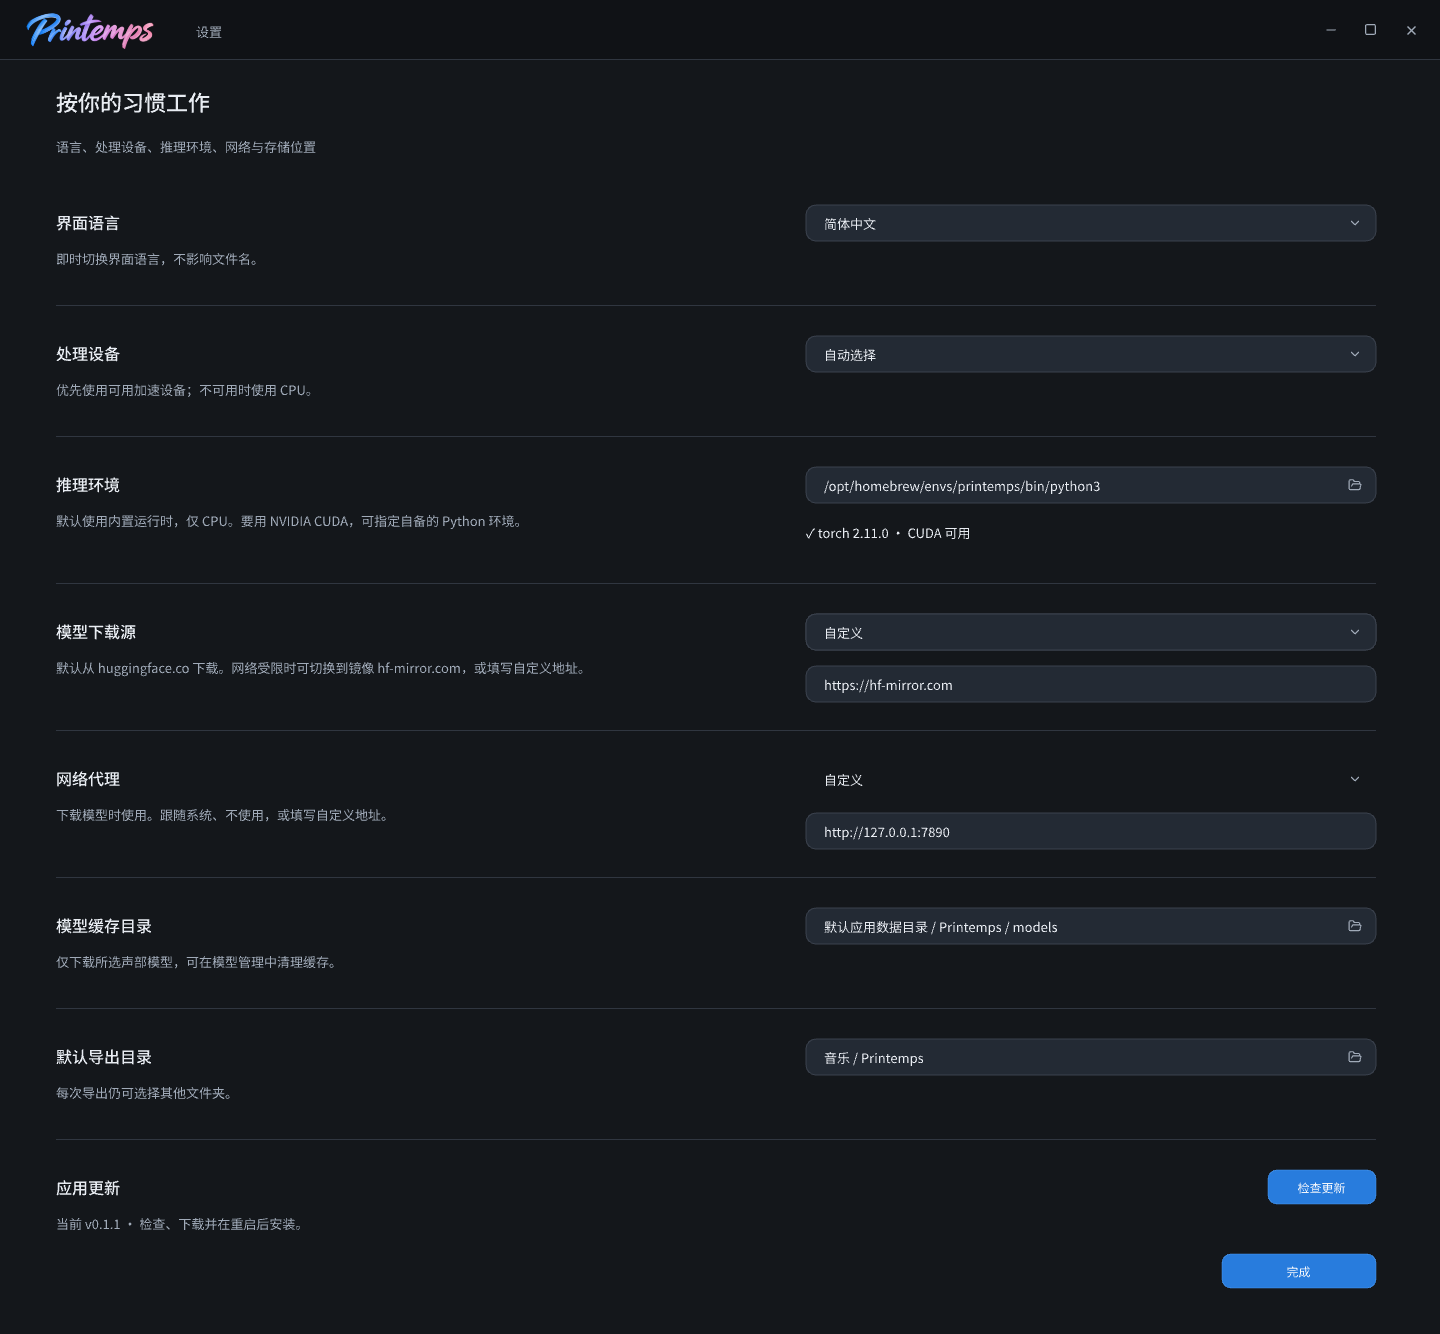
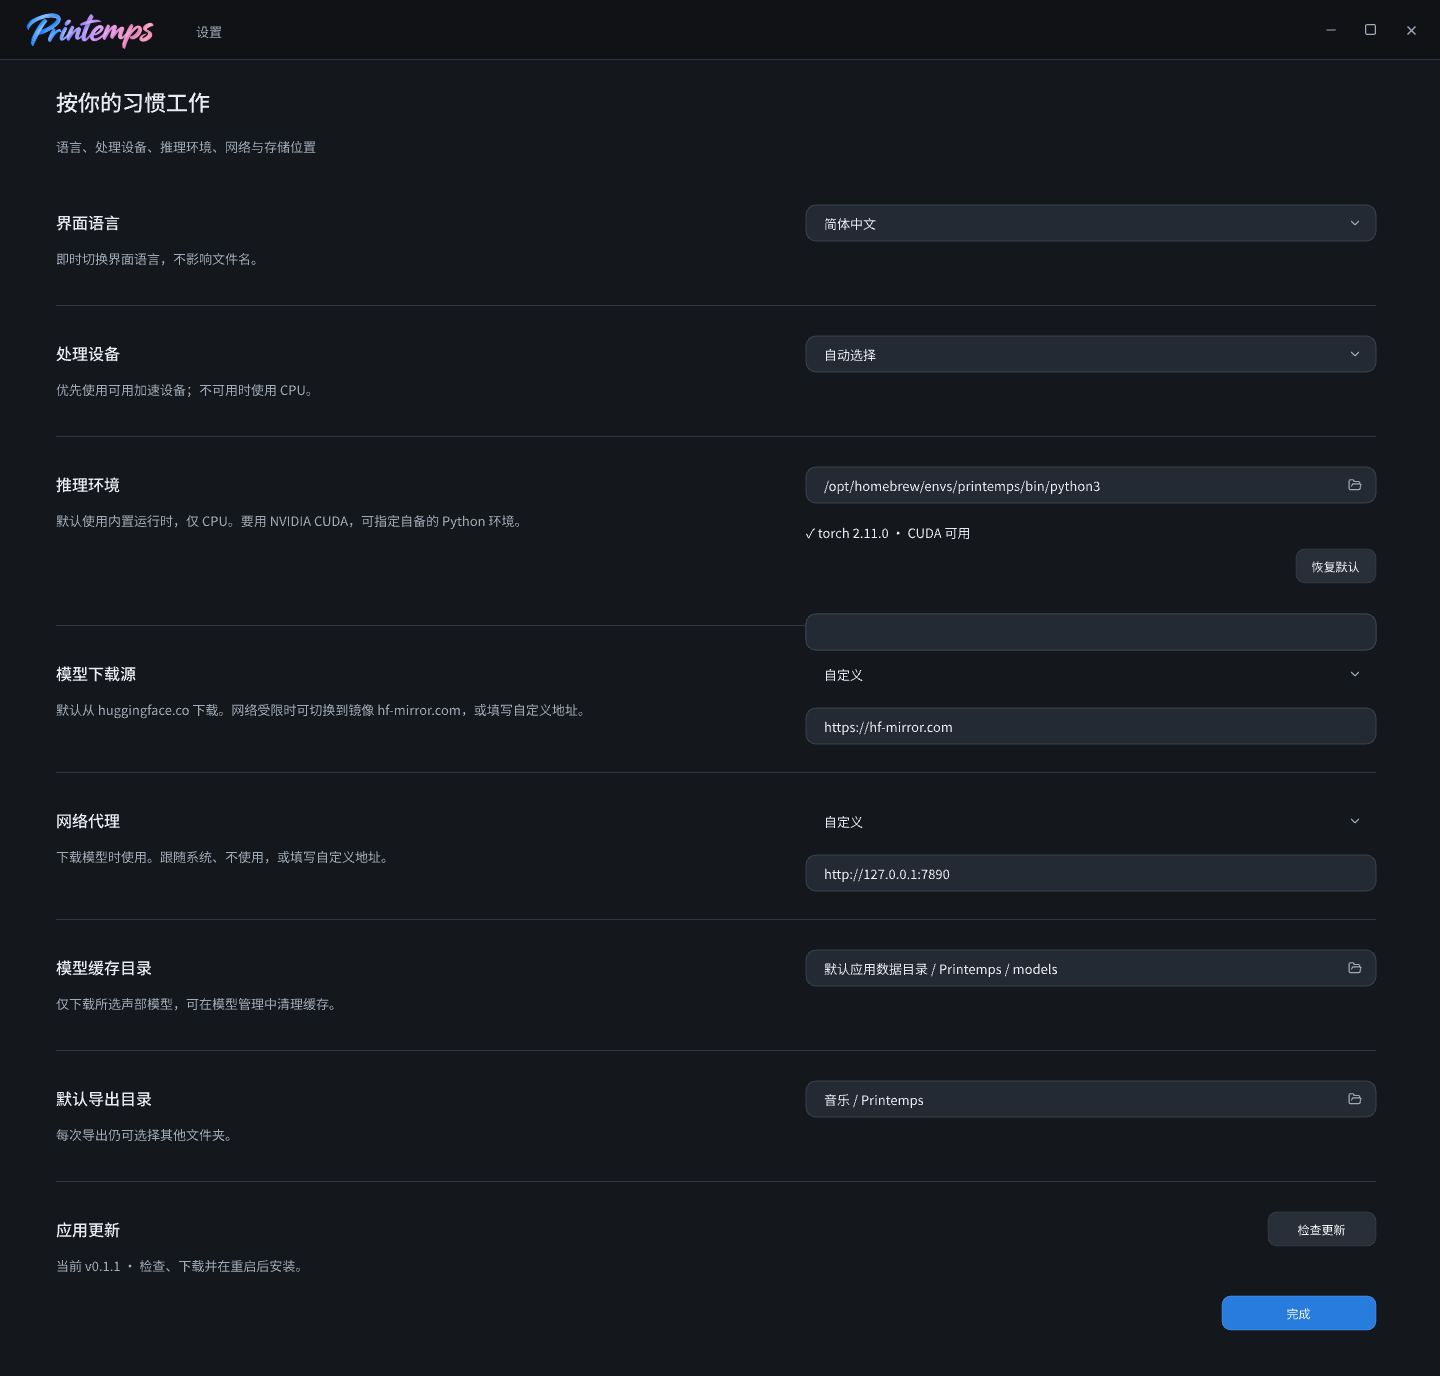
Settings: always show the interpreter reset, and make the preview reach the custom state
The reset existed but the button was hidden until a custom path was set, unlike
the sibling directory rows. Board 09 gained the control and both it and the
update button were corrected from primary to secondary, leaving one primary.

diff --git a/preview/main.ts b/preview/main.ts
@@ -43,7 +43,7 @@ const partial:Partial<DesktopAPI>={
  listArchivedProjects:async()=>structuredClone(archived),restoreArchivedProject:async id=>{const item=archived.find(p=>p.archiveId===id);if(!item)throw new Error('Project not found');projects.push(item.project);archived=archived.filter(p=>p.archiveId!==id);return structuredClone(item.project)},purgeArchivedProject:async id=>{archived=archived.filter(p=>p.archiveId!==id)},
  listProjects:async()=>structuredClone(projects),openProject:async id=>{const found=projects.find(p=>p.id===id);if(!found)throw new Error('Project not found');project=found;return structuredClone(project)},importAudio:async()=>{if(failNextImport){failNextImport=false;throw new Error('/private/fixture.wav: Invalid data found when processing input')}return structuredClone(project)},
  saveProject:async (id,edits)=>{if(id!==project.id)throw new Error('Project not found');if(failNextSave){failNextSave=false;throw new Error(en?'Fixture: saving failed. Retry to keep your changes.':'测试示例：保存失败，请重试以保留修改。')}project=applyProjectEdits(project,edits);projects=projects.map(p=>p.id===project.id?project:p);return structuredClone(project)},deleteProject:async(id,purge)=>{const item=projects.find(p=>p.id===id);if(item&&!purge)archived.push({archiveId:uuid(),project:item});projects=projects.filter(p=>p.id!==id)},
- getSettings:async()=>settings,probeDevice:async()=>({cuda:false,mps:true,auto:'cpu' as const,torch:'2.11.0',missing:[] as string[],custom:false}),choosePythonInterpreter:async()=>null,resetPythonInterpreter:async()=>settings,saveSettings:async p=>settings={...settings,...p},settingsDirectories:async()=>({modelDirectory:'/example/model-cache',exportDirectory:'/example/exports'}),
+ getSettings:async()=>settings,probeDevice:async()=>({cuda:false,mps:true,auto:'cpu' as const,torch:'2.11.0',missing:[] as string[],custom:false}),choosePythonInterpreter:async()=>settings={...settings,pythonPath:'/opt/homebrew/envs/printemps/bin/python3'},resetPythonInterpreter:async()=>settings={...settings,pythonPath:''},saveSettings:async p=>settings={...settings,...p},settingsDirectories:async()=>({modelDirectory:'/example/model-cache',exportDirectory:'/example/exports'}),
  listModels:async()=>manifest.models.map(m=>({id:m.id,bytes:m.totalBytes,cached:cachedModels.has(m.id)})),separationStatus:async()=>null,analysisStatus:async()=>null,
  updateStatus:async()=>({phase:'development',currentVersion:'UI fixture'}),onAnalysis:noopSubscription,onSeparation:listener=>{separationListeners.add(listener);return()=>{separationListeners.delete(listener)}},onModelProgress:listener=>{modelListeners.add(listener);return()=>{modelListeners.delete(listener)}},onUpdate:noopSubscription,onCloseRequest:noopSubscription
 }

diff --git a/src/renderer/preferences.tsx b/src/renderer/preferences.tsx
@@ -51,7 +51,7 @@ function InterpreterRow({en,settings,probe,onChange}:{en:boolean;settings:Settin
  return <div className="preference-row proxy-row"><span><strong>{t('推理环境','Inference environment')}</strong><small>{t('默认使用内置运行时，仅 CPU。要用 NVIDIA CUDA，可指定自备的 Python 环境，只影响分离，分析仍用内置运行时。','The bundled runtime is CPU only. To use NVIDIA CUDA, point this at your own Python environment; it affects separation only, analysis keeps using the bundled runtime.')}</small></span>
  <div className="proxy-fields"><button className="directory-path" title={settings.pythonPath} disabled={busy} onClick={()=>pick()}>{settings.pythonPath||t('内置运行时','Bundled runtime')}<span aria-hidden="true">…</span></button>
  <small>{status()}</small>
- {custom&&<div className="dialog-actions"><button disabled={busy} onClick={()=>pick(true)}>{t('恢复默认','Use default')}</button></div>}
+ <div className="dialog-actions"><button disabled={busy||!custom} onClick={()=>pick(true)}>{t('恢复默认','Use default')}</button></div>
  {error&&<p role="alert">{error}</p>}</div></div>
 }
 

diff --git a/docs/acceptance.md b/docs/acceptance.md
@@ -794,6 +794,7 @@ Implemented from user feedback on the local 9da5785 build and verified on the re
 - English hero: a second capture of the same window after the user switched the app to English is `site/assets/workspace-en.png` (2940×1846). The `img` carries `data-zh`/`data-en` sources (both `?v=__BUILD__`-stamped) and `render()` swaps `src` and `alt` with the language toggle; verified locally in both directions at 1440 px.
 - Guide copy rule (user feedback): do not state things the user need not do or internal implementation facts (bundled Python runtime, focus handling, update source). Removed those three sentences in zh and en; board 35 section 7 text updated.
 - Site copy after notarization (user approved): three places claimed the build was not notarized and told users to allow it under Privacy & Security. Updated in zh and en — the macOS download-card note now just says to drag the app into Applications, the guide's install step states the build is signed and notarized so it opens on a double-click, and the obsolete troubleshooting entry was deleted rather than reworded (the failure it described no longer occurs). Boards 33 (`r7sOzh`) and 35 (`lunfr`, `L2herE`) updated first, board 35 re-laid out and both re-exported; Pen saved natively. Verified in the browser: card notes correct for all three platforms, install bullet updated, troubleshooting list down to five entries, and no remaining mention of “未公证” / “not notarized” / Privacy & Security anywhere in `site/`.
+- Resetting the custom interpreter (user question, 2026-09-21): the reset already existed — `settings:reset-python` clears the stored path, points the interpreter back at the bundled runtime and drops the cached device probe, refusing while a separation runs. Two inconsistencies were fixed while confirming it. The row hid its 恢复默认 button unless a custom path was set, while the sibling directory rows always render it disabled; it now matches them. The preview fixture returned `null` from `choosePythonInterpreter`, so the custom state was unreachable for layout review; it now returns a plausible path and the reset clears it. Verified the full round trip in the preview: default shows 内置运行时 with the reset disabled, choosing shows the path plus `torch 2.11.0 · 未检测到 CUDA` with reset enabled, and reset returns to the default state. Board 09 gained the 恢复默认 control (height 1334 → 1376) and both it and 检查更新 were corrected from primary to secondary styling, leaving 完成 as the single primary on the screen. **Known board/code gap left in place**: the two directory rows have had a 恢复默认 button in code for a long time that the board still does not depict.
 - Model download source setting (user request, 2026-09-21): Settings gained a 模型下载源 row between 推理环境 and 网络代理 (board 09 `HZgto`, height 1187 → 1334) offering huggingface.co, hf-mirror.com or a custom host. `normalizeEndpoint` in `src/main/models.ts` accepts a bare host and normalises to `scheme://host[:port]`, rejecting paths, query strings and embedded credentials; `modelBaseUrl` keeps the repository and revision from `model-manifest.json`, so switching hosts cannot switch models and the existing checksum verification still applies. The main process rebuilds `ModelCache` when either the directory or the base URL changes, and refuses while a download or separation is running. UI note: the stored value cannot express “custom but not yet filled in”, so the row keeps the mode in local state — verified in the preview that picking 自定义 reveals the address field and picking hf-mirror.com saves and hides it again. New `tests/endpoint.test.ts` plus a settings round-trip; full suite 104 passed / 3 skipped, tsc, lint 0 and the production build all pass. Guide §12 and §14, the privacy policy’s network section, AGENTS.md and the board table were updated to match.
 - CI release green end to end (run 35548906860 on `352342b`, 2026-09-21): all three platforms succeeded and the draft `v0.1.1` carries every artifact — DMG 359 MB, mac zip 369 MB, **AppImage 495 MB**, Windows exe 328 MB, plus blockmaps and the three `latest*.yml`. The Linux upload that previously died on `size must be less than 2147483648` now goes through. The macOS job logged `notarization successful` and Apple's submission history shows the matching Accepted entry at 00:53:18Z, so notarization works from CI on the CPU-only runtime. Windows passed on the direct-URL `+cpu` wheel, which was its first verification from that source. The release is still a draft and has not been published.
 - CPU-only pinning, second attempt (2026-09-21): the first attempt (`--extra-index-url` + `--index-strategy unsafe-best-match`) fixed Linux but broke macOS — the PyTorch CPU index and PyPI ship *different* macOS arm64 wheels for the same `torch==2.11.0` (verified: the index wheel hashes `072a0d6e…` and that hash is absent from the lock), so the lock recorded PyPI hashes while the install resolved the PyTorch one and `--require-hashes` failed. Replaced with direct wheel URLs for Linux x86_64/aarch64 and Windows x64; macOS keeps resolving from PyPI unchanged, and `scripts/prepare-runtime.mjs` went back to its original install command. Residual CUDA entries in the lock are gated to Linux on architectures that are neither aarch64 nor x86_64, so none of the three build targets can install them. CI run 35548334596 had also failed Windows at `pnpm test`: the new interpreter test asserted a non-executable file is rejected, but Windows grants X_OK to every readable file — both `SettingsService.setPythonPath` and the test now skip that check on win32. Verified: macOS runtime rebuilt 538 MB with torch 2.11.0 and MPS; Linux container run (node:24-bookworm, the repo's own verify script) passed tests, packaged analysis twice, and produced a **495 MB AppImage** (519,543,112 bytes, down from 3,045,394,056) with no nvidia/triton packages installed; 102 unit tests, tsc and lint clean. The superseded CI run was cancelled rather than left to burn macOS minutes.

diff --git a/design/README.md b/design/README.md
@@ -44,7 +44,7 @@ Git 远程地址：`git@github.com:Means88/printemps.git`。
 | 06 | 工作区内分离进度（紧凑进度行，基于画板 30 重建） | 1440 × 900 | pV6c6 |
 | 07 | 模型管理 | 1440 × 900 | N9u2S |
 | 08 | 导出选中剪辑弹窗 | 1440 × 900 | S5oPw |
-| 09 | 设置（推理环境、模型下载源、网络代理、应用更新行；字段高 36、按钮 34、箭头 14px 内缩） | 1440 × 1334 | WbwXU |
+| 09 | 设置（推理环境、模型下载源、网络代理、应用更新行；字段高 36、按钮 34、箭头 14px 内缩） | 1440 × 1376 | WbwXU |
 | 10 | 中文异常恢复与完成状态 | 1440 × 1080 | ypPrG |
 | 11 | 交互与本地运行规范 | 1440 × 960 | SiCnS |
 | 12 | 英文长文案异常状态 | 1440 × 1080 | M2t1RC |
